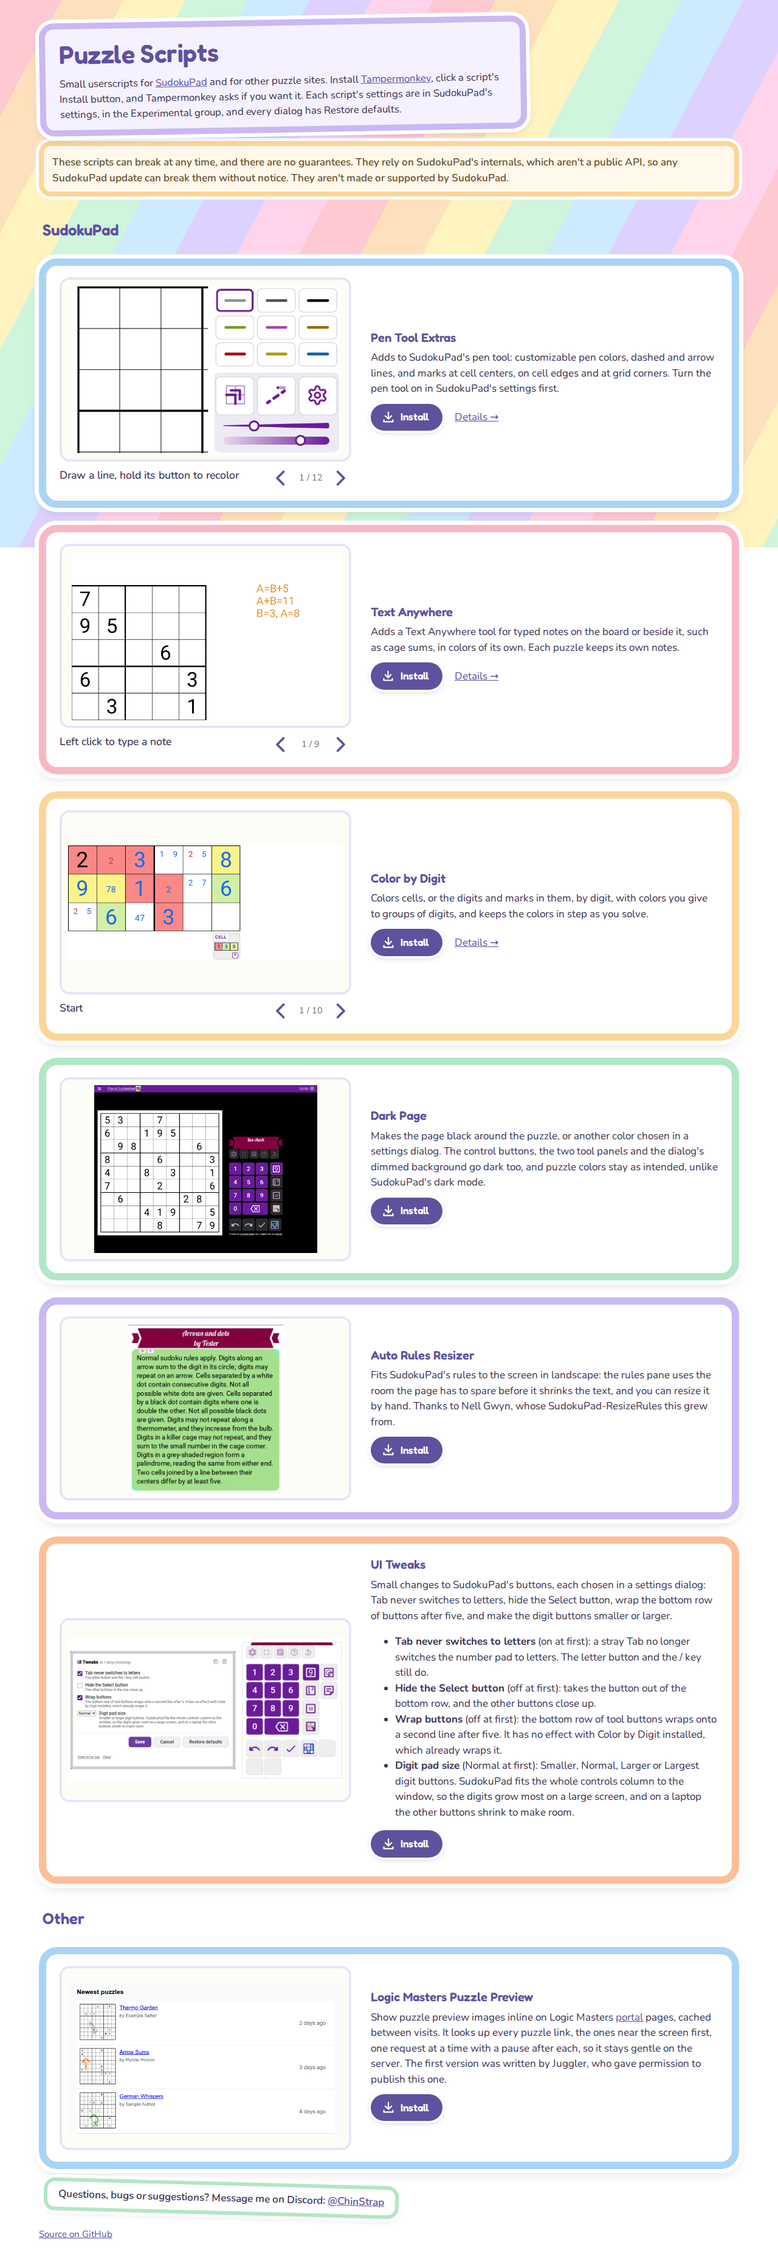
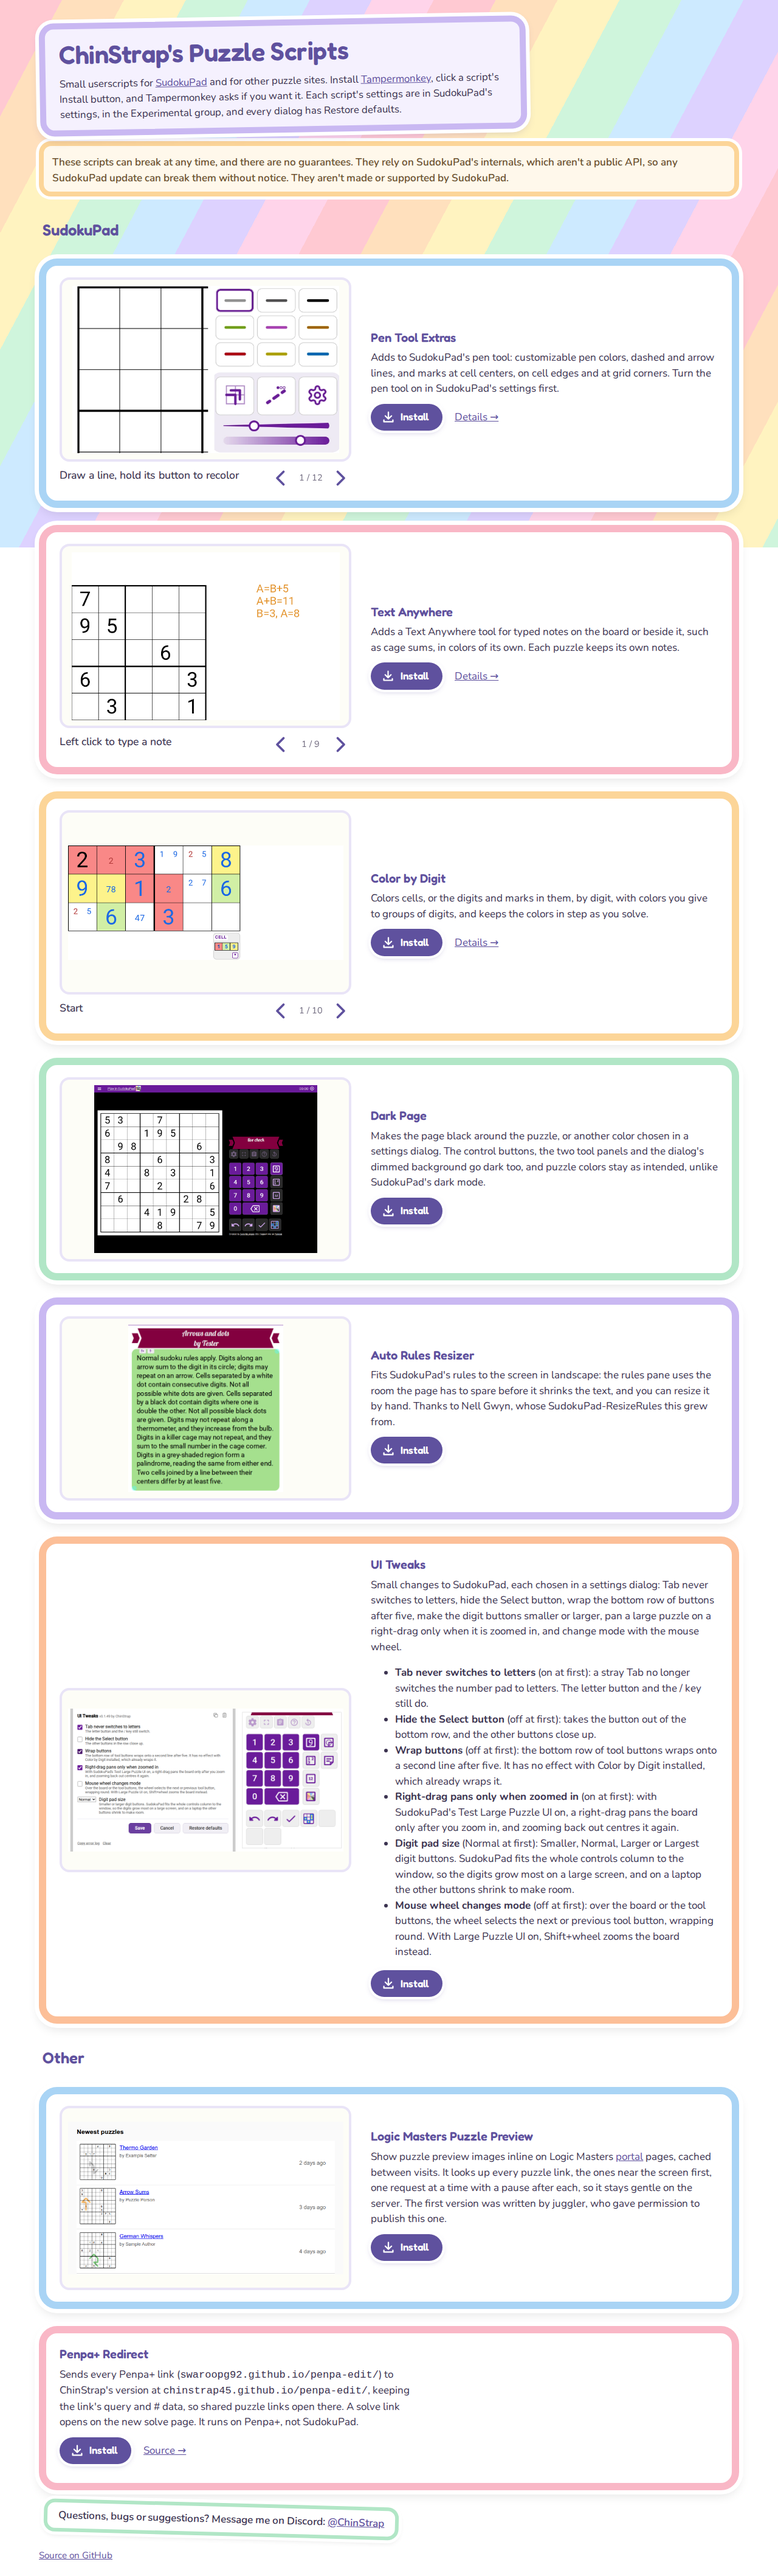
Site: titled ChinStrap's Puzzle Scripts on the homepage, its preview and every page's site name
Closes #1182

Changed region(s): [[0.0, 0.0, 1.0, 1.0]]

diff --git a/site/index.html b/site/index.html
@@ -3,16 +3,16 @@
 <head>
 <meta charset="utf-8">
 <meta name="viewport" content="width=device-width, initial-scale=1">
-<title>Puzzle Scripts</title>
+<title>ChinStrap's Puzzle Scripts</title>
 <meta name="description" content="Small userscripts for SudokuPad and for other puzzle sites: pen colors and marks, typed notes on the board, colors by digit, a dark page and more.">
 <meta property="og:type" content="website">
-<meta property="og:title" content="Puzzle Scripts">
+<meta property="og:title" content="ChinStrap's Puzzle Scripts">
 <meta property="og:description" content="Small userscripts for SudokuPad and for other puzzle sites: pen colors and marks, typed notes on the board, colors by digit, a dark page and more.">
 <meta property="og:image" content="https://raw.githubusercontent.com/chinstrap45/sudokupad-scripts/main/docs/research/site/site-preview-card.png?v=eefdc85">
 <meta property="og:image:width" content="1200">
 <meta property="og:image:height" content="630">
 <meta property="og:image:alt" content="A card titled ChinStrap&#39;s Puzzle Scripts with three panels side by side: Pen Tool Extras, the pen panel with its nine color buttons; Text Anywhere, a typed note beside the board; and Color by Digit, board cells colored by digit with its Cell panel; and an &quot;and more!&quot; sticker in the bottom right corner">
-<meta property="og:site_name" content="Puzzle Scripts">
+<meta property="og:site_name" content="ChinStrap's Puzzle Scripts">
 <meta name="twitter:card" content="summary_large_image">
 <meta name="theme-color" content="#5f519e">
 <link rel="icon" href="favicon.svg" type="image/svg+xml">
@@ -47,7 +47,7 @@
 </head>
 <body>
   <header class="banner">
-    <h1>Puzzle Scripts</h1>
+    <h1>ChinStrap's Puzzle Scripts</h1>
     <p class="lede">Small userscripts for <a href="https://sudokupad.app">SudokuPad</a> and for other puzzle sites. Install <a href="https://www.tampermonkey.net/">Tampermonkey</a>, click a script's Install button, and Tampermonkey asks if you want it. Each script's settings are in SudokuPad's settings, in the Experimental group, and every dialog has Restore defaults.</p>
   </header>
   <p class="warning">These scripts can break at any time, and there are no guarantees. They rely on SudokuPad's internals, which aren't a public API, so any SudokuPad update can break them without notice. They aren't made or supported by SudokuPad.</p>

diff --git a/test/site.test.js b/test/site.test.js
@@ -189,12 +189,12 @@ for (const [name, text] of Object.entries(WARNINGS)) {
   })
 }
 
-test(`${HOME} opens with the title sticker: the title, Puzzle Scripts, then the intro as its subtitle`, () => {
+test(`${HOME} opens with the title sticker: the title, ChinStrap's Puzzle Scripts, then the intro as its subtitle`, () => {
   const m = read(HOME).match(/<body>\s*<header class="banner">\s*<h1>([^<]*)<\/h1>\s*<p class="lede">([\s\S]*?)<\/p>\s*<\/header>/)
   assert.ok(m, `site/${HOME} does not open with a <header class="banner"> holding the <h1> and then the lede`)
-  assert.equal(m[1], 'Puzzle Scripts')
+  assert.equal(m[1], "ChinStrap's Puzzle Scripts")
   assert.equal(plain(m[2]), "Small userscripts for SudokuPad and for other puzzle sites. Install Tampermonkey, click a script's Install button, and Tampermonkey asks if you want it. Each script's settings are in SudokuPad's settings, in the Experimental group, and every dialog has Restore defaults.")
-  assert.match(read(HOME), /<title>Puzzle Scripts<\/title>/)
+  assert.match(read(HOME), /<title>ChinStrap's Puzzle Scripts<\/title>/)
 })
 
 // Chris ruled dark mode out of the site (#808): it is light only, whatever the browser asks for.

diff --git a/site/pen-tool-extras.html b/site/pen-tool-extras.html
@@ -12,7 +12,7 @@
 <meta property="og:image:width" content="684">
 <meta property="og:image:height" content="430">
 <meta property="og:image:alt" content="A teal line across the top row of the board, beside the pen panel whose first color button is now teal. Animated, the slide steps from the empty board to the line drawn in gray, to a red ring on the first color button held down so every pen button shows a color picker, to the teal picked">
-<meta property="og:site_name" content="Puzzle Scripts">
+<meta property="og:site_name" content="ChinStrap's Puzzle Scripts">
 <meta name="twitter:card" content="summary_large_image">
 <meta name="theme-color" content="#5f519e">
 <link rel="icon" href="favicon.svg" type="image/svg+xml">

diff --git a/site/text-anywhere.html b/site/text-anywhere.html
@@ -12,7 +12,7 @@
 <meta property="og:image:width" content="800">
 <meta property="og:image:height" content="500">
 <meta property="og:image:alt" content="Three orange lines typed with Enter in the margin beside the top rows of the grid, A=B+5, A+B=11 and B=3, A=8">
-<meta property="og:site_name" content="Puzzle Scripts">
+<meta property="og:site_name" content="ChinStrap's Puzzle Scripts">
 <meta name="twitter:card" content="summary_large_image">
 <meta name="theme-color" content="#5f519e">
 <link rel="icon" href="favicon.svg" type="image/svg+xml">

diff --git a/site/color-by-digit.html b/site/color-by-digit.html
@@ -12,7 +12,7 @@
 <meta property="og:image:width" content="900">
 <meta property="og:image:height" content="375">
 <meta property="og:image:alt" content="The two boxes in Cell mode, with the Color by Digit button under them">
-<meta property="og:site_name" content="Puzzle Scripts">
+<meta property="og:site_name" content="ChinStrap's Puzzle Scripts">
 <meta name="twitter:card" content="summary_large_image">
 <meta name="theme-color" content="#5f519e">
 <link rel="icon" href="favicon.svg" type="image/svg+xml">
